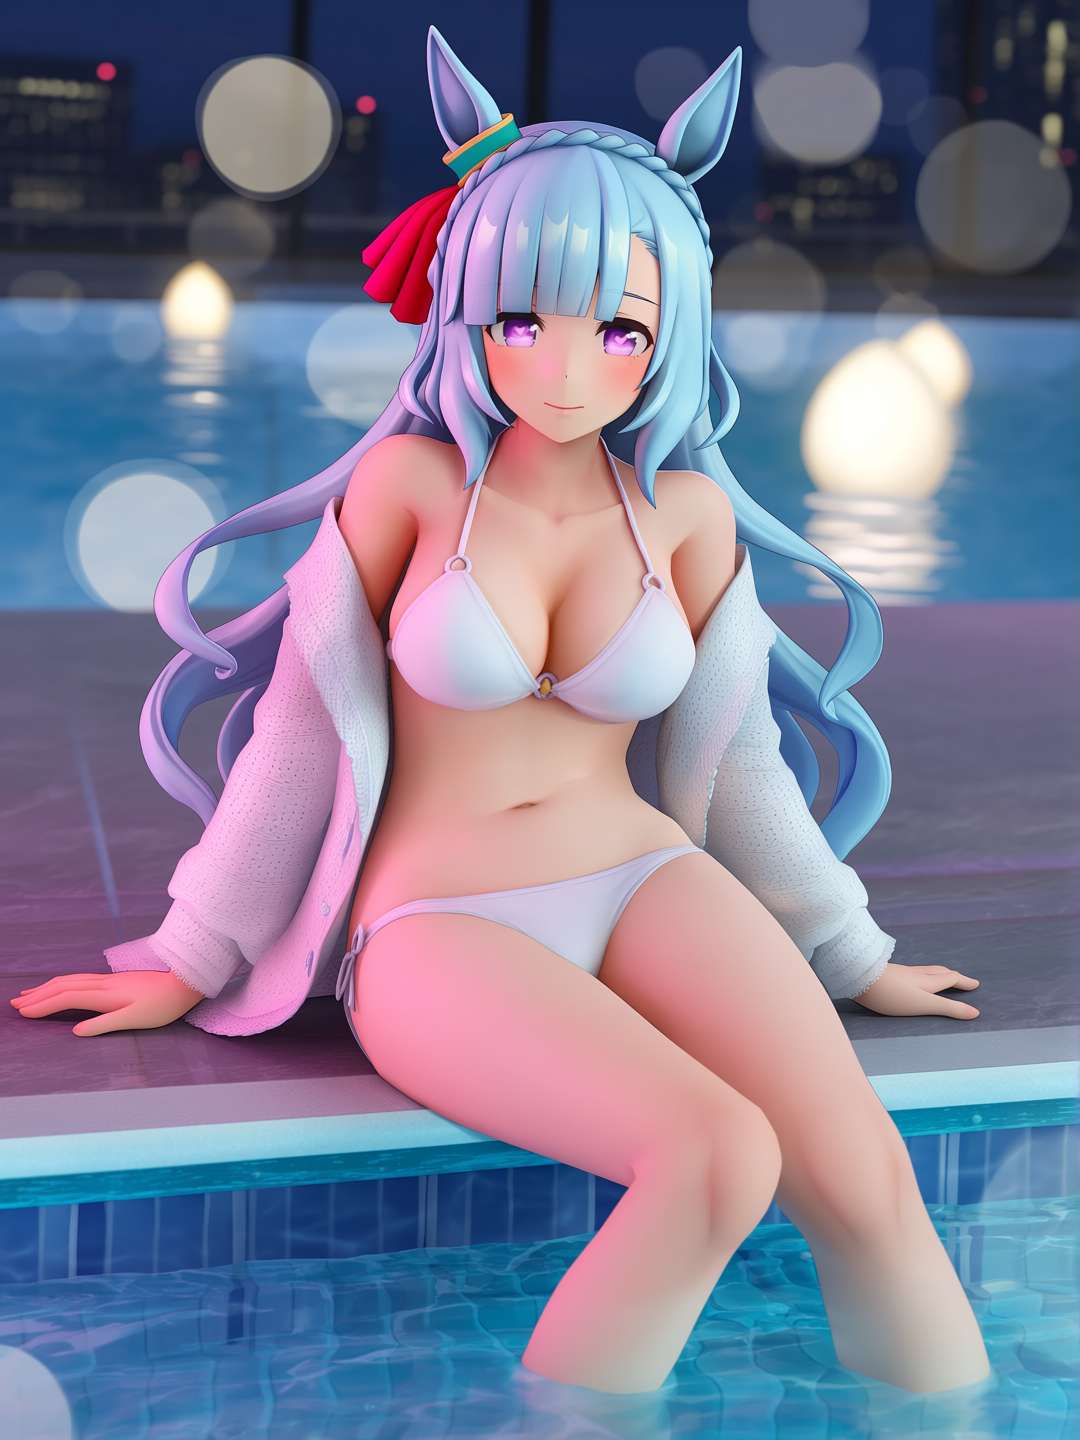
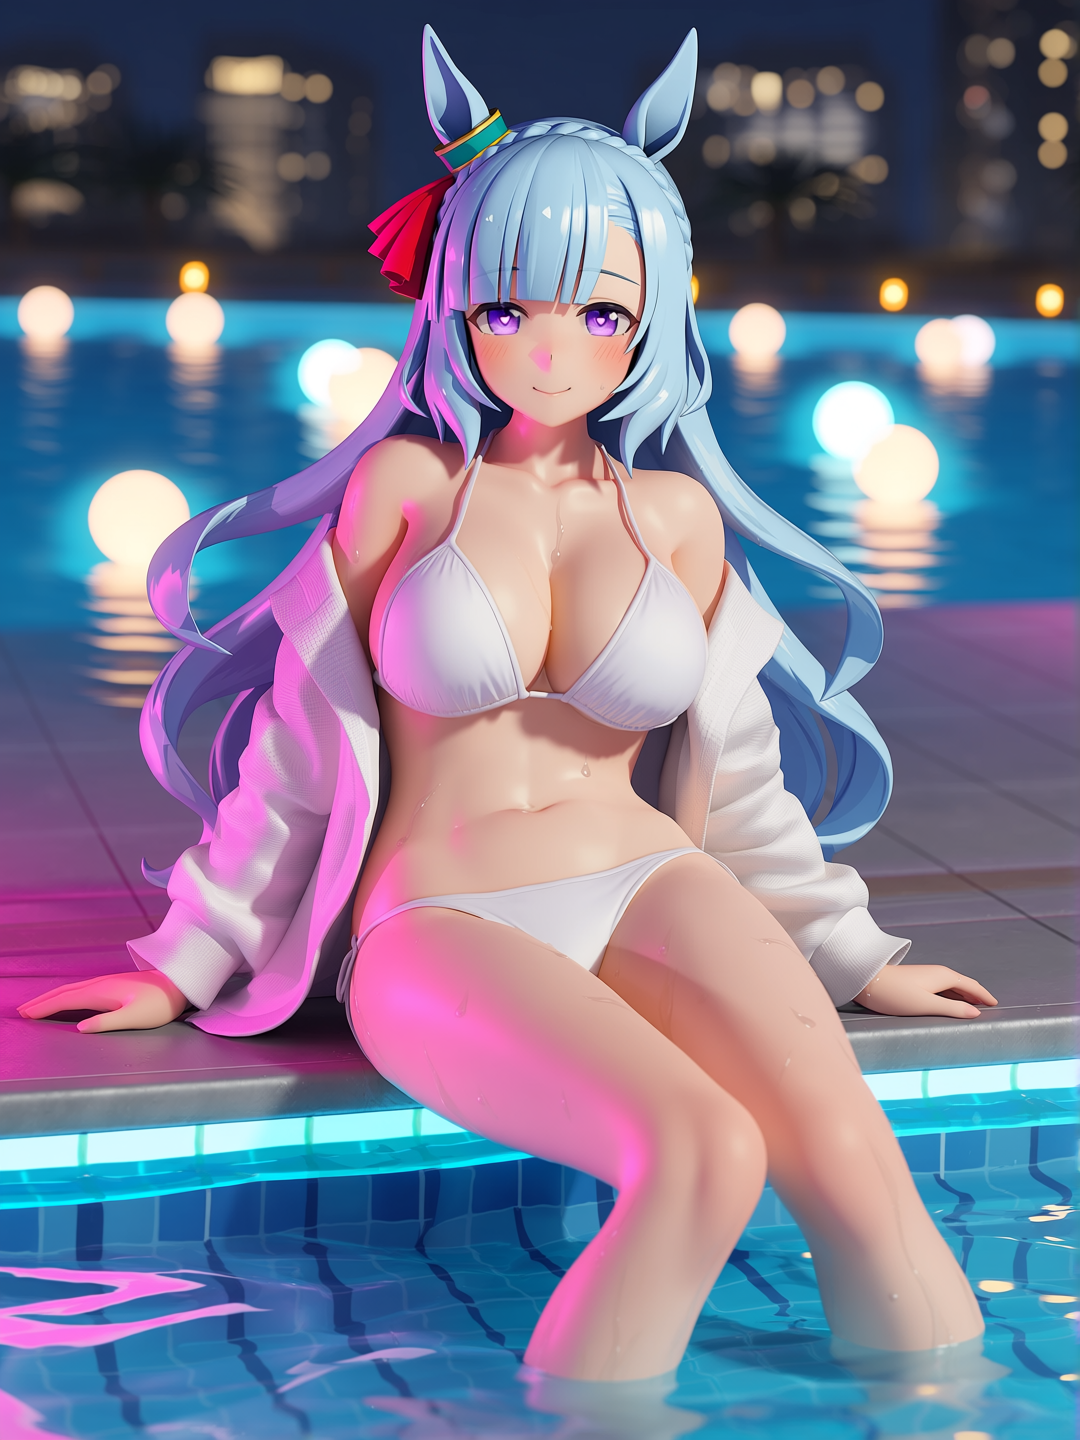
feat(0.2.45): 2.5D 柔光改为「宽而软高光」（H4）
- 用户纠偏：v1 基调对，塑料感来自镜面高光；纯漫反射又过头（没高光）
- 最终风格词：diffuse reflection + soft broad highlights + soft-edged specular
  + gentle skin sheen + semi-matte skin
- 负面：mirror reflection / sharp specular spot / hard highlight edge / wet plastic
- 实测 H2 含蓄镜面 → H3 纯漫反射(过头) → H4 宽而软(采用)
- 预览图换为 H4 输出

diff --git a/app/renderer/app.js b/app/renderer/app.js
@@ -99,9 +99,9 @@
     "2.5d-thick-soft": {
       label: "2.5D 柔光",
       artists: [],
-      tags: "2.5D, semi-realistic anime, 3D anime figure render, pseudo-3D shading, soft diffuse lighting, gentle rim light, soft ambient light, atmospheric haze, muted colors, low contrast, pastel tone, filmic color grading, soft skin shading, subsurface scattering, mild specular highlights, natural skin texture, shallow depth of field, cinematic bokeh, smooth surfaces, high detail",
-      hint: "2.5D 柔光：低对比 + 柔漫射光 + 含蓄高光，接近 pool 参考图；建议 CFG 4.0（3.5 偏灰、4.5 偏塑料），重绘 0.80–0.85",
-      negative: "oversaturated, neon glow, plastic skin, latex, harsh highlights, high contrast, glossy plastic, harsh shadows, cel shading, flat shading, lineart only, oil painting, brush strokes",
+      tags: "2.5D, semi-realistic anime, 3D anime figure render, pseudo-3D shading, soft global illumination, ambient occlusion, subsurface scattering, diffuse reflection, soft broad highlights, soft-edged specular, gentle skin sheen, semi-matte skin, smooth diffuse shading, even skin lighting, warm rim light, cool rim light, soft ambient light, cinematic bokeh, depth of field, smooth surfaces, physically based rendering look, high detail",
+      hint: "2.5D 柔光：宽而软的高光（不是镜面点光，也不是完全没高光）。建议 CFG 4.5、重绘 0.80–0.85",
+      negative: "mirror reflection, sharp specular spot, hard highlight edge, wet plastic, glossy plastic, latex, blown highlights, overexposed highlights, glow bloom, plastic sheen, cel shading, lineart only",
       lora: "",
       loraStrength: 0,
     },

diff --git a/HANDOFF_CURRENT.md b/HANDOFF_CURRENT.md
@@ -1,13 +1,13 @@
 # Lumen Studio Flow 交接包
 
-更新时间：2026-11-22（22:10 发布 0.2.43）  
-当前版本：`0.2.43`  
+更新时间：2026-11-22（23:00 发布 0.2.45）  
+当前版本：`0.2.45`  
 项目目录：`F:\DSH WORKSPACE\lumen-flow`  
 工作区：`F:\DSH WORKSPACE`  
 主进程：`app/main.cjs`  
 渲染层：`app/renderer/app.js`、`index.html`、`styles.css`  
 GitHub：https://github.com/7ather-LX/lumen-studio-flow  
-最新 Release：https://github.com/7ather-LX/lumen-studio-flow/releases/tag/v0.2.43
+最新 Release：https://github.com/7ather-LX/lumen-studio-flow/releases/tag/v0.2.45
 
 ---
 
@@ -28,7 +28,7 @@ F:\DSH WORKSPACE
 先读取 F:\DSH WORKSPACE\lumen-flow\HANDOFF_CURRENT.md
 和 F:\DSH WORKSPACE\lumen-flow\WORKSPACE_MAP.md
 以及 F:\DSH WORKSPACE\lumen-flow\WORK_RULES.md（工作规范，必须遵守）。
-当前版本 0.2.43，先确认项目状态，再继续。
+当前版本 0.2.45，先确认项目状态，再继续。
 ```
 
 ### 0.3 不要依赖 Hindsight
@@ -47,9 +47,9 @@ WORK_RULES.md
 
 ### 0.4 新对话先确认
 
-1. 源码版本是否为 `0.2.43`
-2. 本机安装是否为 `0.2.43`
-3. GitHub latest 是否为 `v0.2.43`
+1. 源码版本是否为 `0.2.45`
+2. 本机安装是否为 `0.2.45`
+3. GitHub latest 是否为 `v0.2.45`
 4. `references/library/library.json` 是否仍有 191 张参考图
 5. 自定义分类“小穴”是否仍有 29 张
 6. `app/renderer/characters.js` 是否仍包含 `yukikaze (azur lane)`
@@ -197,16 +197,16 @@ training\references\mejiro-ardan-ref.jpg
 ## 3. 当前版本与发布
 
 ```text
-源码：0.2.43
-本机安装：0.2.43
-GitHub latest：v0.2.43
+源码：0.2.45
+本机安装：0.2.45
+GitHub latest：v0.2.45
 ```
 
-Release 附件（v0.2.43 共 11 个）：
+Release 附件（v0.2.45 共 11 个）：
 
 ```text
-Lumen-Studio-Flow-Setup-0.2.43.exe
-Lumen-Studio-Flow-0.2.43.exe
+Lumen-Studio-Flow-Setup-0.2.45.exe
+Lumen-Studio-Flow-0.2.45.exe
 character-data-v0.2.35.zip
 loras-share-v0.2.6.zip
 bootstrap_models.ps1
@@ -215,13 +215,13 @@ OFFLINE_BUNDLE.md
 REFERENCE_IMPORT.md
 import_pose_gallery.py
 README.md
-RELEASE_NOTES_0.2.43.md
+RELEASE_NOTES_0.2.45.md
 ```
 
 说明：
 
 - `latest.yml` 与 `blockmap` 只留在本地 `release\`，不随 Release 上传（沿用 v0.2.35 惯例；应用内无 autoUpdater）
-- 旧版本已删除，只保留 v0.2.43
+- 旧版本已删除，只保留 v0.2.45
 - `character-data` 最新产出仍是 `v0.2.35`，**0.2.36 / 0.2.37 未单独产出数据包**（角色数据无变化）
 
 ---
@@ -602,6 +602,48 @@ CFG 3.5  偏灰发闷
 
 ---
 
+### 4.15 0.2.44 / 0.2.45：柔光的高光——从镜面到「宽而软」
+
+用户两次纠偏，最终结论很明确：
+
+```text
+1) v1（CFG 4.5）基调是对的，塑料感来自高光过曝，不是「不够柔」
+2) CFG 4.0 / 3.5 是 3D 建模感，属于「2.5D 厚涂」的区间，不能算柔光
+3) 目标是：把镜面反射改成参考图那种漫反射，但**不能过头到没有高光**
+```
+
+迭代过程：
+
+```text
+H1  只加高光负面词                仍偏塑料，白高光条纹明显
+H2  subtle specular / skin sheen  仍带柔光斑，镜面残留
+H3  纯漫反射 / matte skin          过头：胸口腹部大腿完全没有高光，皮肤发死
+H4  diffuse reflection
+    + soft broad highlights
+    + soft-edged specular
+    + gentle skin sheen + semi-matte   ← 采用：有高光但宽而软，最接近参考
+```
+
+最终风格词：
+
+```text
+正向：diffuse reflection, soft broad highlights, soft-edged specular,
+      gentle skin sheen, semi-matte skin, smooth diffuse shading, even skin lighting
+负向：mirror reflection, sharp specular spot, hard highlight edge,
+      wet plastic, glossy plastic, latex, blown highlights, glow bloom
+```
+
+定位（写进风格提示）：
+
+```text
+2.5D 厚涂   3D 建模质感（已认可，优先级后延）
+2.5D 柔光   宽而软高光的插画质感，CFG 4.5、重绘 0.80–0.85，当前主攻
+```
+
+联系表：`contact-soft-h4.png`（参考 / H2 / H3 过头 / H4 采用）
+
+---
+
 ## 5. 画风定义
 
 ```text
@@ -670,7 +712,7 @@ _archive\old-release-notes-2026-11-22
 
 已删除：
 
-- 旧版 0.1.x / 0.2.0–0.2.42 安装包与 blockmap
+- 旧版 0.1.x / 0.2.0–0.2.44 安装包与 blockmap
 - 旧版 character-data 0.2.6–0.2.34
 - 旧 loras-share 0.2.4 / 0.2.5
 - 旧日志与 0 字节临时文件
@@ -681,7 +723,7 @@ _archive\old-release-notes-2026-11-22
 ```text
 character-data-v0.2.35.zip（最新；0.2.36 起未单独产出）
 loras-share-v0.2.6.zip
-release\ 当前版本（0.2.43 Setup / portable / blockmap + latest.yml + win-unpacked）
+release\ 当前版本（0.2.45 Setup / portable / blockmap + latest.yml + win-unpacked）
 current style verification images
 ```
 
@@ -813,9 +855,9 @@ Set-Location 'F:\DSH WORKSPACE'
 
 新对话应能回答：
 
-1. 当前版本？→ `0.2.43`
+1. 当前版本？→ `0.2.45`
 2. 项目路径？→ `F:\DSH WORKSPACE\lumen-flow`
-3. 最新 Release？→ `v0.2.43`
+3. 最新 Release？→ `v0.2.45`
 4. 用户参考库多少张？→ 191（已清理 29 条僵尸元数据），自定义“小穴”29
 5. 2.5D 厚涂怎么复刻旧对话结果？→ 2.5D 厚涂 + 参考图 + 自定义档 32 步 / CFG4.5 / 0.88 / seed 1601600，关自动画风
 6. 脚趾怎么修？→ 局部精修（勾“自动修正足部/手部细节”），可选部位（脚/手/脚+手）与区域（下半/中部/上半/左/右）

diff --git a/WORKSPACE_MAP.md b/WORKSPACE_MAP.md
@@ -1,7 +1,7 @@
 # Lumen Studio Flow 工作区文件地图
 
 更新时间：2026-11-22（16:55 复核版本）  
-当前版本：`0.2.43`（源码 / 本机安装 / GitHub latest 三者一致）
+当前版本：`0.2.45`（源码 / 本机安装 / GitHub latest 三者一致）
 
 这不是交接包。交接包等画风问题处理完后再写。  
 本文件用于说明哪些文件是什么、哪些绝对不能动、哪些已经归档/清理。
@@ -184,11 +184,11 @@ lumen-flow\_archive\visual-assets-2026-11-22.zip
 保留：
 
 ```text
-release\ 只留当前版本（0.2.43 Setup / portable / blockmap + latest.yml + win-unpacked）
+release\ 只留当前版本（0.2.45 Setup / portable / blockmap + latest.yml + win-unpacked）
 character-data-v0.2.35（最新产出；0.2.36 / 0.2.37 未单独产出数据包）
 character-data-v0.2.35.zip（已校验：zip = 目录 = app\renderer 四文件哈希一致）
 loras-share-v0.2.6
-handoff-0.2.43-final（0.2.35 → … → 0.2.42 → 当前）
+handoff-0.2.45-final（0.2.35 → … → 0.2.44 → 当前）
 ```
 
 ### 当前根目录保留的图片
@@ -272,15 +272,15 @@ amiya-base-compare.png
 ## 7. 当前版本相关
 
 ```text
-源码：0.2.43
-本机安装：0.2.43（用 `win-unpacked` 覆盖部署，安装器在本机不生效，见 §9）
-GitHub latest：v0.2.43（已发布，11 个附件）
+源码：0.2.45
+本机安装：0.2.45（用 `win-unpacked` 覆盖部署，安装器在本机不生效，见 §9）
+GitHub latest：v0.2.45（已发布，11 个附件）
 ```
 
 最新 Release：
 
 ```text
-https://github.com/7ather-LX/lumen-studio-flow/releases/tag/v0.2.43
+https://github.com/7ather-LX/lumen-studio-flow/releases/tag/v0.2.45
 ```
 
 ### 版本历史（2026-11-22）
@@ -294,17 +294,19 @@ https://github.com/7ather-LX/lumen-studio-flow/releases/tag/v0.2.43
 0.2.40  (未发布) 修复重绘张数/自动加参考/精修模型
 0.2.41  2.5D 厚涂改成伪 3D 质感 + 柔光独立
 0.2.42  构图档位（特写/半身/全身的推荐画幅+重绘幅度）
-0.2.43  2.5D 柔光降饱和对齐参考 + 界面次要面板默认折叠（当前）
+0.2.43  界面次要面板默认折叠
+0.2.44  2.5D 柔光高光收敛（H2，已被 0.2.45 取代）
+0.2.45  柔光改为「宽而软高光」（H4，漫反射但保留高光）（当前）
 ```
 
 当前状态：
 
 ```text
-源码 package.json         0.2.43
-release\ 构建产物         0.2.43（Setup / portable / blockmap / win-unpacked）
-release\latest.yml        0.2.43（sha512 与安装包实测一致）
-本机安装 exe              0.2.43
-GitHub latest             v0.2.43
+源码 package.json         0.2.45
+release\ 构建产物         0.2.45（Setup / portable / blockmap / win-unpacked）
+release\latest.yml        0.2.45（sha512 与安装包实测一致）
+本机安装 exe              0.2.45
+GitHub latest             v0.2.45
 ```
 
 规则（用户 2026-11-22 指定）：**以后有新改动就直接出新版本并发 GitHub，不再逐次询问。**
@@ -364,8 +366,8 @@ Start-Process "C:\Users\25576\AppData\Local\Programs\Lumen Studio Flow\Lumen Stu
 
 ### 9.2 NSIS 安装器在本机不生效，用 `win-unpacked` 部署
 
-`release\Lumen-Studio-Flow-Setup-0.2.43.exe` 直接运行（`/S` 静默或 GUI、有无沙箱、全新目录）
-都是**退出码 0 但不写任何文件**，也不产生卸载注册项（0.2.36 时同样如此）。因此本机 0.2.43 是用
+`release\Lumen-Studio-Flow-Setup-0.2.45.exe` 直接运行（`/S` 静默或 GUI、有无沙箱、全新目录）
+都是**退出码 0 但不写任何文件**，也不产生卸载注册项（0.2.36 时同样如此）。因此本机 0.2.45 是用
 
 ```text
 release\win-unpacked\  →  C:\Users\25576\AppData\Local\Programs\Lumen Studio Flow\

diff --git a/RELEASE_NOTES_0.2.44.md b/RELEASE_NOTES_0.2.44.md
@@ -1,0 +1,56 @@
+# Lumen Studio Flow v0.2.44
+
+完全免费、为爱发电的本地 AI 绘画工作台。Electron + ComfyUI + Anima，本地优先，不上传素材。
+
+## 2.5D 柔光：治的是「高光用力过猛」
+
+上一版把柔光往低对比、降饱和方向调，那是错的——那会滑向 3D 建模感，属于 **2.5D 厚涂** 的区间。
+真正问题是 **高光过曝、镜面过强**，皮肤看起来像塑料。
+
+本版做法：保留原来的柔光基调（柔光 GI、次表面、彩色轮廓光、散景），只收敛高光：
+
+```text
+正向：glossy specular skin  →  subtle specular highlights, natural skin sheen,
+                              controlled highlights, soft matte finish
+负向新增：harsh highlights, blown highlights, overexposed highlights,
+          strong specular, wet plastic, plastic skin, latex,
+          glossy plastic, excessive reflection, glow bloom, harsh reflections
+```
+
+实测（同参考图、同 seed、重绘 0.82）：
+
+```text
+CFG 4.5 + 含蓄高光词   皮肤不再泛塑料、高光受控，最接近参考  ← 推荐
+CFG 4.0 / 3.5          偏灰、偏平，滑向 3D 建模感（那是「2.5D 厚涂」的区间）
+```
+
+所以柔光保持 **CFG 4.5**、重绘 **0.80–0.85**，风格提示里已写明。
+
+> 两个风格的定位现在很清楚：
+> **2.5D 厚涂** = 3D 建模质感（你已认可，优先级后延）
+> **2.5D 柔光** = 柔光 + 自然高光的插画感（当前主攻）
+
+## 安装
+
+发布包是单安装器。首次启动如果缺少 ComfyUI / Python，会弹出“一键部署完整环境”，自动下载约 8GB 的 ComfyUI、Python、Anima Base、Qwen3、VAE 和节点。
+
+离线用户可使用 `build_offline_bundle.ps1` 生成独立完整运行环境包，安装后在设置中指向解压目录。
+
+1. 运行 `Lumen-Studio-Flow-Setup-0.2.44.exe`
+2. 安装会创建桌面快捷方式
+3. 运行 `bootstrap_models.ps1` 自动拉取 Anima Base / Qwen3 / VAE
+4. 将 `Anima-2.9B-preview-v1.safetensors` 放入 `models/diffusion_models`
+5. 在设置中确认 ComfyUI / Python / F 盘输出目录
+
+## 本地生成
+
+本地 ComfyUI 生成无次数限制；外部 API 仅在 `engine=api` 时使用。
+
+## 模型与 LoRA
+
+- 25d_anima_v5
+- hand_anima_v1
+- foot_anima_v4
+- fabric_anima_v3
+
+GitHub：https://github.com/7ather-LX/lumen-studio-flow

diff --git a/RELEASE_NOTES_0.2.45.md b/RELEASE_NOTES_0.2.45.md
@@ -1,0 +1,54 @@
+# Lumen Studio Flow v0.2.45
+
+完全免费、为爱发电的本地 AI 绘画工作台。Electron + ComfyUI + Anima，本地优先，不上传素材。
+
+## 2.5D 柔光：把镜面反射换成漫反射
+
+上一版只是「收敛」高光，本质还是镜面。这版按参考图的做法，直接把皮肤改成 **漫反射**：
+
+```text
+正向：diffuse reflection, soft diffuse highlights, matte skin,
+      smooth diffuse shading, even skin lighting
+负向：specular highlights, mirror reflection, glossy skin, wet skin shine,
+      harsh reflected light, plastic sheen, latex, blown highlights,
+      overexposed highlights, glow bloom
+```
+
+实测（同参考图 / seed / 重绘 0.82 / CFG 4.5）：
+
+```text
+H2 含蓄镜面   皮肤仍带柔光斑
+H3 纯漫反射   胸口/腹部/大腿的镜面斑块消失，皮肤均匀柔和，最接近参考  ← 采用
+```
+
+风格定位不变：
+
+```text
+2.5D 厚涂   3D 建模质感（已认可，优先级后延）
+2.5D 柔光   漫反射插画质感，CFG 4.5、重绘 0.80–0.85，当前主攻
+```
+
+## 安装
+
+发布包是单安装器。首次启动如果缺少 ComfyUI / Python，会弹出“一键部署完整环境”，自动下载约 8GB 的 ComfyUI、Python、Anima Base、Qwen3、VAE 和节点。
+
+离线用户可使用 `build_offline_bundle.ps1` 生成独立完整运行环境包，安装后在设置中指向解压目录。
+
+1. 运行 `Lumen-Studio-Flow-Setup-0.2.45.exe`
+2. 安装会创建桌面快捷方式
+3. 运行 `bootstrap_models.ps1` 自动拉取 Anima Base / Qwen3 / VAE
+4. 将 `Anima-2.9B-preview-v1.safetensors` 放入 `models/diffusion_models`
+5. 在设置中确认 ComfyUI / Python / F 盘输出目录
+
+## 本地生成
+
+本地 ComfyUI 生成无次数限制；外部 API 仅在 `engine=api` 时使用。
+
+## 模型与 LoRA
+
+- 25d_anima_v5
+- hand_anima_v1
+- foot_anima_v4
+- fabric_anima_v3
+
+GitHub：https://github.com/7ather-LX/lumen-studio-flow
